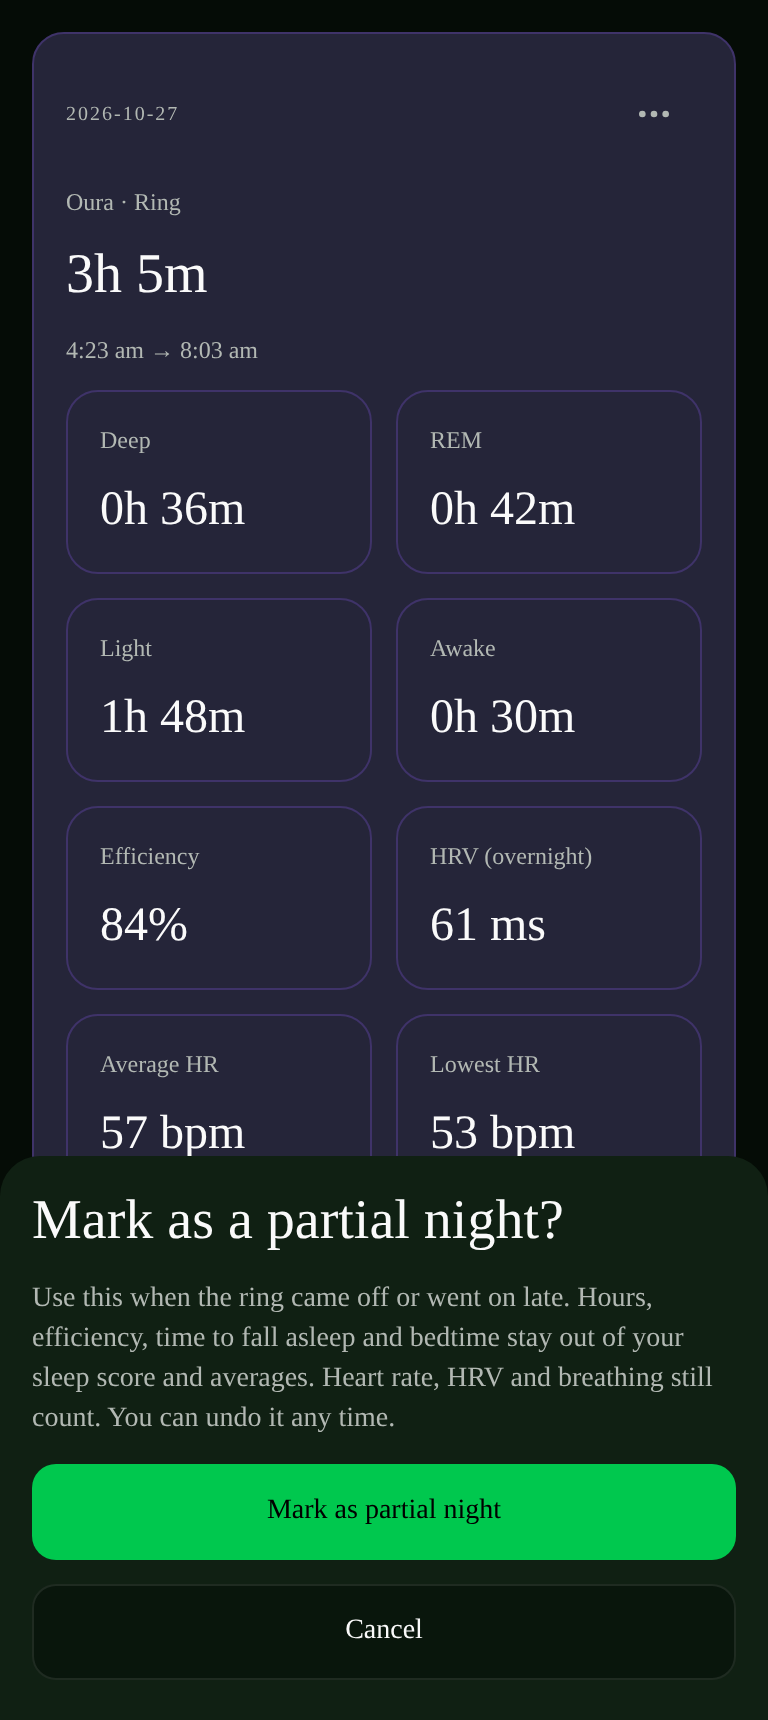
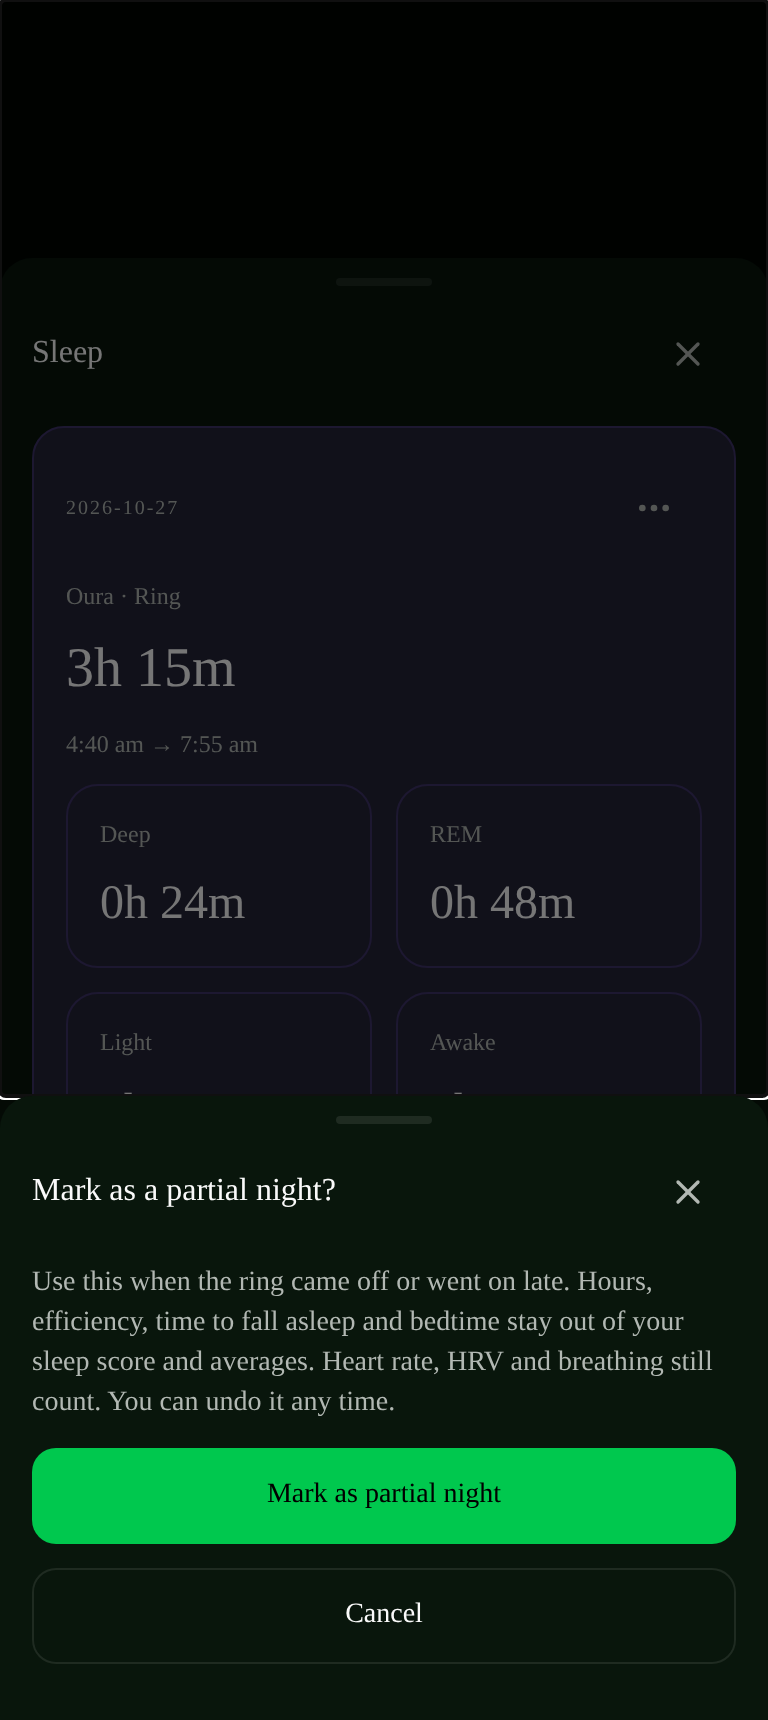
Redraw the partial-night mockups with invented values and the real sheets
The mockup night was a real recorded night relabelled with today's date;
it now uses plainly made-up numbers. Option B is redrawn with Preview's
real Sheet and ActionMenu, stacked over the Sleep sheet the night card
opens in, instead of hand-drawn approximations. The "Log bedtime by hand"
menu item is removed: Preview's sleep night has no menu, and bedtime is
entered on its own card.

diff --git a/docs/design/2026-10-27-partial-night-control/README.md b/docs/design/2026-10-27-partial-night-control/README.md
@@ -1,7 +1,8 @@
 # Marking a night partial: the control (#2265)
 
-Drawn in TrainingAi Preview's own components (`mobile/src/shared/ui`), dark theme, 384 px wide, static
-data: the 27 Oct night (4:23 am to 8:03 am, 3h 5m). The web render falls back to a serif font because
+Drawn in TrainingAi Preview's own components (`mobile/src/shared/ui`), dark theme, 384 px wide (768 px
+PNGs at 2x), static **invented** data: a night from 4:40 am to 7:55 am (3h 15m) with made-up stage,
+efficiency, heart-rate, HRV and breathing values. None of it is a real night. The web render falls back to a serif font because
 Preview's fonts do not load in the browser; the device uses Geist. `PartialNightMockup.tsx.txt` and
 `mockup-entry.tsx.txt` are the throwaway source (copy into `mobile/`, point `main` at the entry, do not
 commit them there).
@@ -14,3 +15,13 @@ commit them there).
 | `b-confirm.png` | B: the confirmation sheet that explains what changes |
 | `b-marked.png` | B: the marked night with an undo sheet |
 | `c-prompt.png` | **C:** a prompt on a short night: "Was the ring off for part of it?" Yes / No |
+
+**How faithful B is.** B is drawn with Preview's real `Sheet` and `ActionMenu`
+(`mobile/src/shared/ui`), stacked the way the app would stack them: the night card already opens
+inside a `Sheet title="Sleep"`, so B's `...` menu is a second sheet over it. The `...` button and the
+confirm sheet's wording are drawn here; nothing is wired up. A and C are cards on a plain frame, not
+inside the Sleep sheet.
+
+**Not in these mockups:** Preview's sleep night has no menu today, so there is no "Log bedtime by
+hand" item to show. Bedtime is entered on the separate *When did you go to bed?* card
+(`RememberedBedtimeCard`), which stays as it is.
